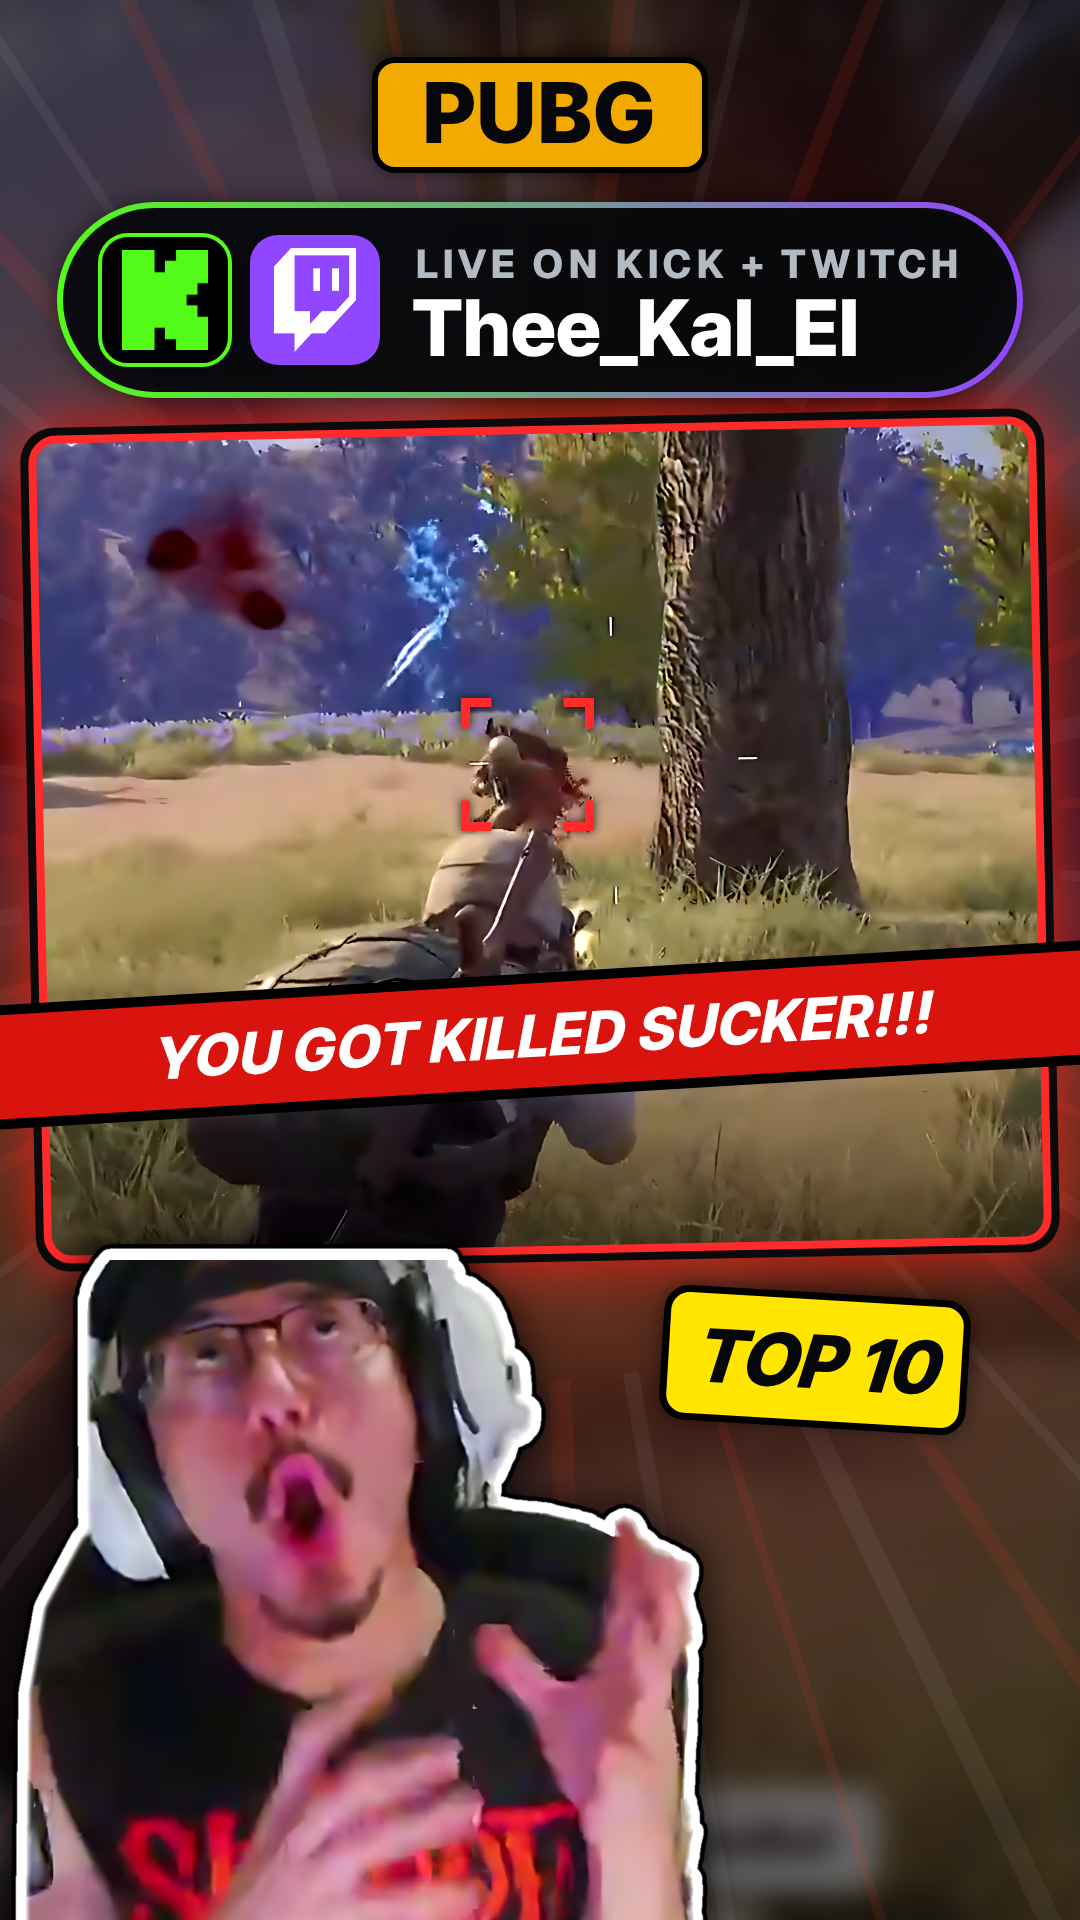
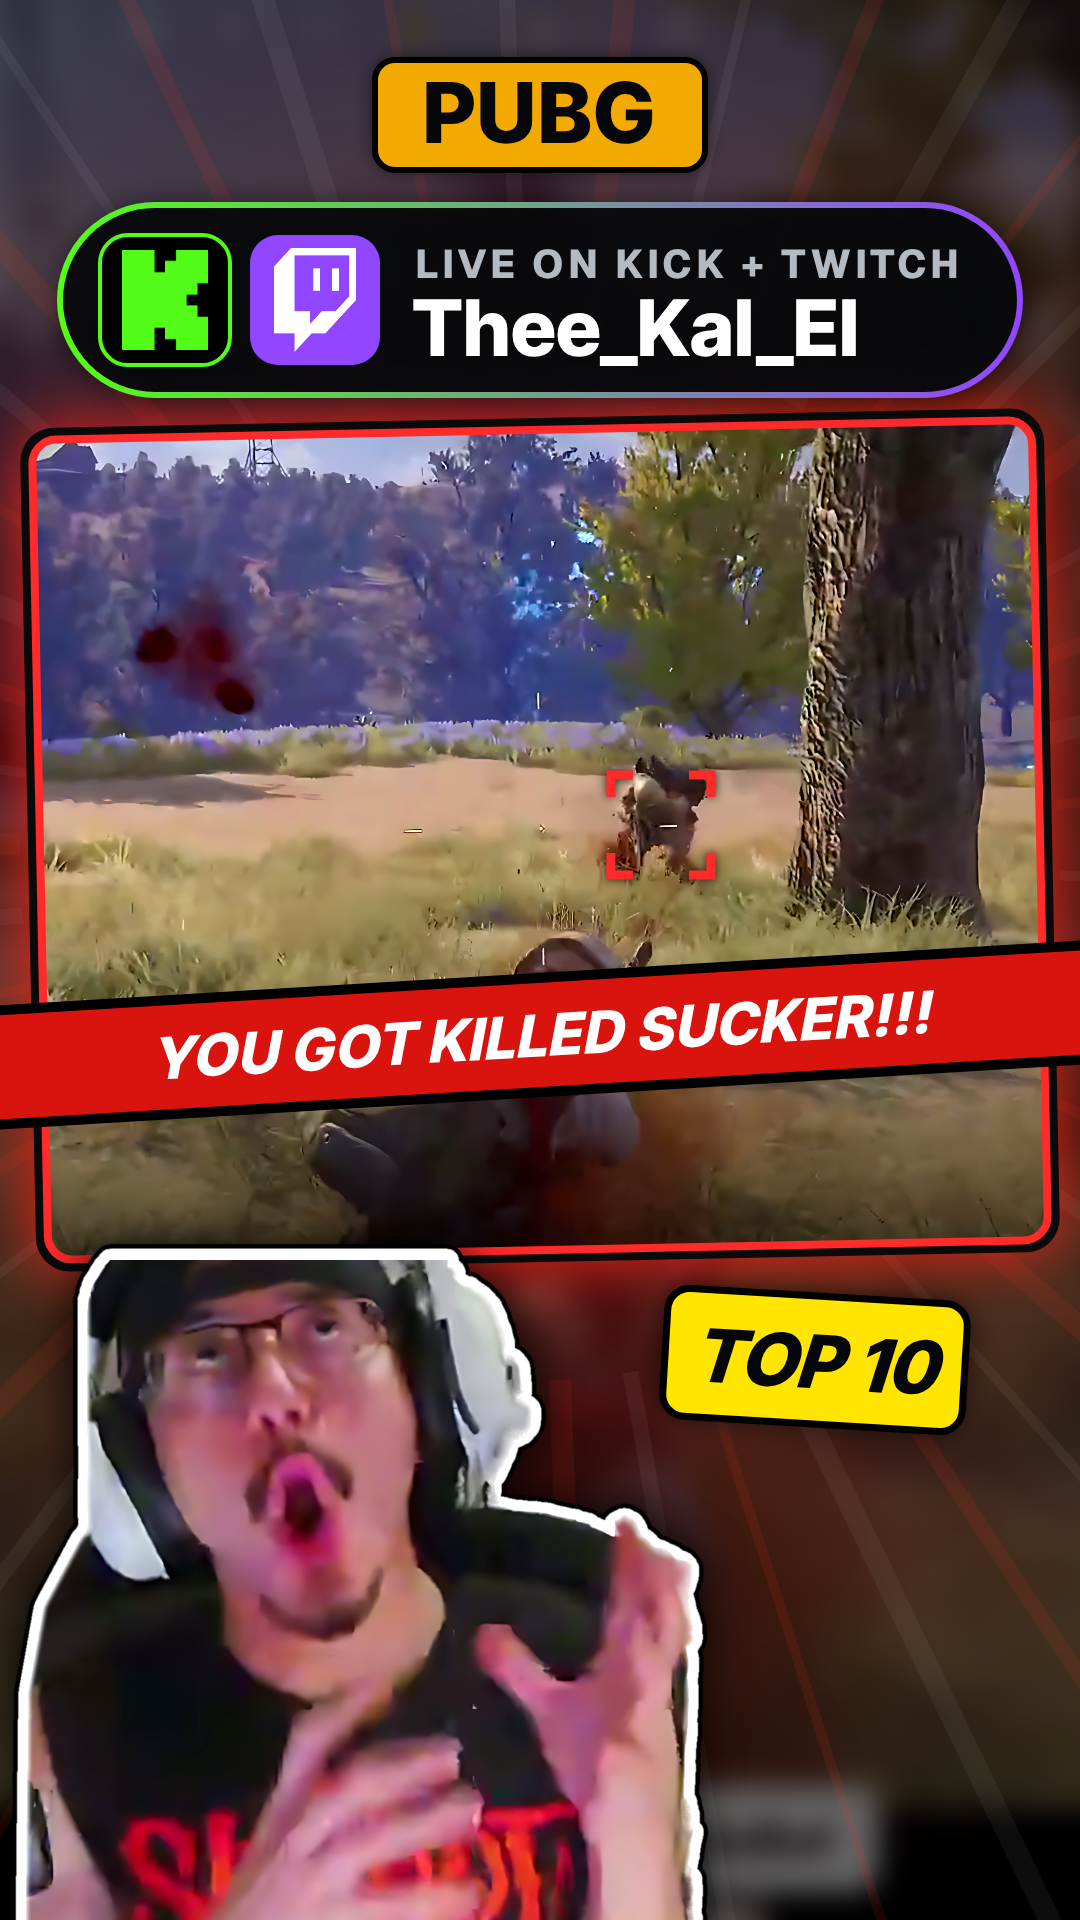
PUBG thumbnail: swap the panel to the knocked-down scene (5.13s)
Claude-Session: https://claude.ai/code/session_01NSJvdmHsHoazKiuuGVQfMY

diff --git a/story/pubg_aaaa_thumb.html b/story/pubg_aaaa_thumb.html
@@ -31,14 +31,14 @@
   c.shadowColor = 'rgba(255,30,20,0.85)'; c.shadowBlur = 60; rr(PX - 12, PY - 12, PW + 24, PH + 24, 34); c.fillStyle = '#0A0A0A'; c.fill(); c.shadowBlur = 0;
   c.save(); rr(PX, PY, PW, PH, 24); c.clip();
   // source crop (in plate px): x 0..3200, y 1040..3664 — blood in the air, the enemy by the tree, Kal aiming in the foreground
-  c.filter = 'contrast(1.12) saturate(1.25) brightness(1.05)'; c.drawImage(duel, 0, 1040, 3200, 2624, PX, PY, PW, PH); c.filter = 'none';
+  c.filter = 'contrast(1.12) saturate(1.25) brightness(1.05)'; c.drawImage(duel, 0, 640, 3672, 3011, PX, PY, PW, PH); c.filter = 'none';
   g = c.createLinearGradient(0, PY, 0, PY + PH); g.addColorStop(0.7, 'rgba(0,0,0,0)'); g.addColorStop(1, 'rgba(0,0,0,0.55)'); c.fillStyle = g; c.fillRect(PX, PY, PW, PH);
   c.restore();
   rr(PX, PY, PW, PH, 24); c.lineWidth = 8; c.strokeStyle = RED; c.stroke();
   c.restore();
   // crosshair-style target bracket on the enemy (enemy at plate ~ (1560,2110))
-  const ex = PX + 1560 * PW / 3200, ey = PY + (2110 - 1040) * PH / 2624;
-  c.save(); c.strokeStyle = RED; c.lineWidth = 9; c.shadowColor = 'rgba(0,0,0,0.8)'; c.shadowBlur = 10; const b = 62, l = 26;
+  const ex = PX + 2280 * PW / 3672, ey = PY + (2090 - 640) * PH / 3011;
+  c.save(); c.strokeStyle = RED; c.lineWidth = 9; c.shadowColor = 'rgba(0,0,0,0.8)'; c.shadowBlur = 10; const b = 50, l = 22;
   [[-1, -1], [1, -1], [-1, 1], [1, 1]].forEach(([sx, sy2]) => { c.beginPath(); c.moveTo(ex + sx * b, ey + sy2 * (b - l)); c.lineTo(ex + sx * b, ey + sy2 * b); c.lineTo(ex + sx * (b - l), ey + sy2 * b); c.stroke(); }); c.restore();
 
   // ---- kill-feed slash across the duel
